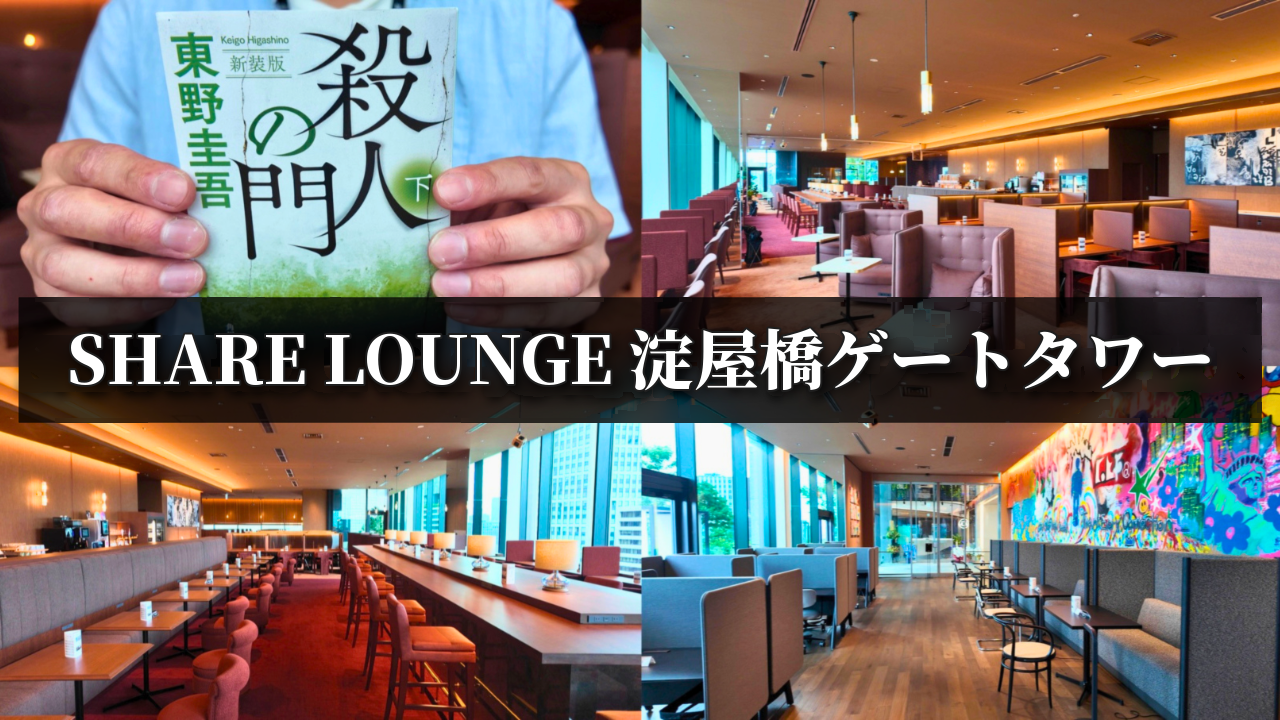
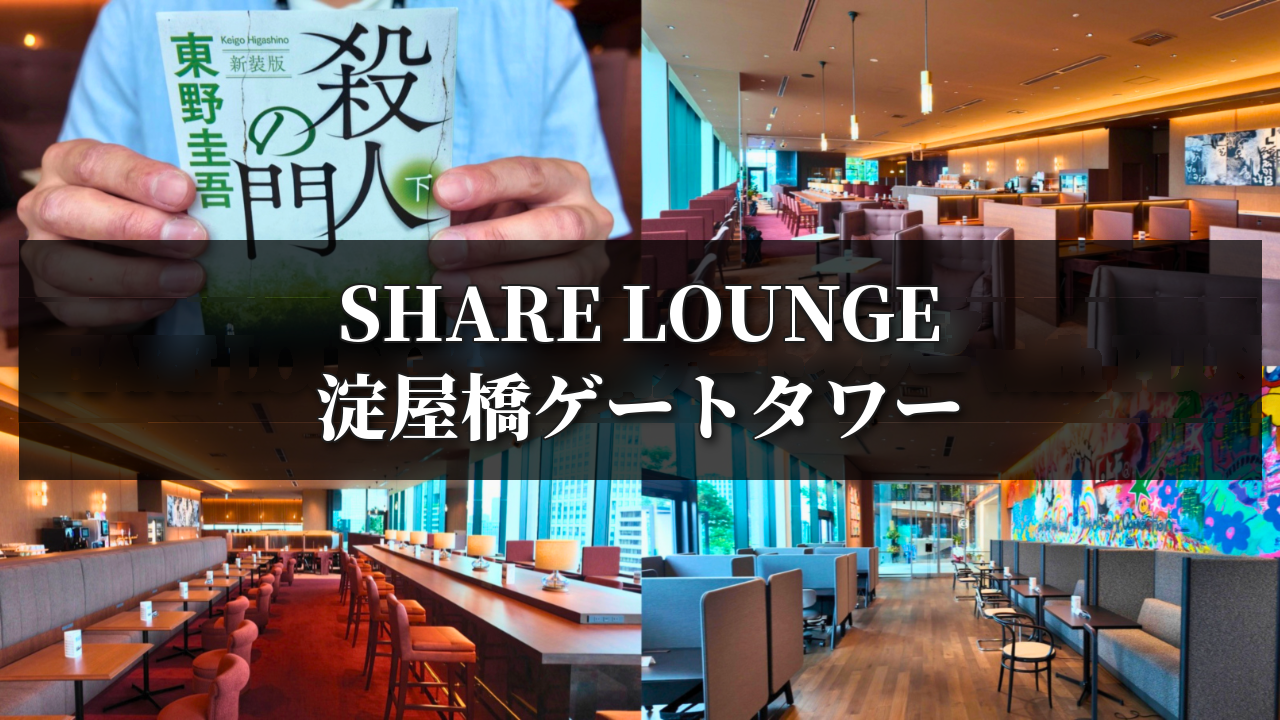
SHARE LOUNGE：真ん中の文字を2行に（retitle.pyを複数行に対応）
Claude-Session: https://claude.ai/code/session_01PgBssd9mgKDSdASv1kBNHd

Changed region(s): [[0.0, 0.3361, 1.0, 0.6722]]

diff --git a/thumbnail/retitle.py b/thumbnail/retitle.py
@@ -7,6 +7,7 @@
     source.png  : 元のサムネイル（1280x720）
     config.json : {"title": "新しい文字", "band": [左, 上, 右, 下]}
                   band は元の半透明の帯の位置（ピクセル）
+                  2 行にするときは title を "1行目\n2行目" にし、"band_height" で帯の高さを指定
 出力: フォルダ内の thumbnail.png（作り直すたびに上書きする）
 """
 import json
@@ -53,29 +54,49 @@ def build(folder: Path) -> Path:
     arr = np.asarray(img).copy()
     arr[t:b, l:r] = erase_text(arr[t:b, l:r])
     canvas = Image.fromarray(arr).convert("RGBA")
-    # 消した跡が目立たないよう、帯を少しだけ濃くする
+    # 2 行以上のときは帯を上下に広げる（新しく広げた部分は元の帯と同じ濃さにする）
+    lines = title.split("\n")
+    nt, nb = t, b
+    if "band_height" in config:
+        cy = (t + b) // 2
+        nt, nb = cy - config["band_height"] // 2, cy + config["band_height"] // 2
     overlay = Image.new("RGBA", canvas.size, (0, 0, 0, 0))
-    ImageDraw.Draw(overlay).rectangle((l, t, r - 1, b - 1), fill=(0, 0, 0, 90))
+    od = ImageDraw.Draw(overlay)
+    od.rectangle((l, nt, r - 1, nb - 1), fill=(0, 0, 0, 185))
+    # 消した跡が目立たないよう、元の帯の部分も少しだけ濃くする
+    od.rectangle((l, t, r - 1, b - 1), fill=(0, 0, 0, 90))
     canvas = Image.alpha_composite(canvas, overlay)
 
     # 帯の高さに合わせた文字サイズ（横幅に入りきらなければ縮める）
-    target_h = round((b - t) * 0.5)
+    gap_ratio = 0.35  # 行と行のあいだ（文字の高さに対する割合）
+    fill = 0.5 if len(lines) == 1 else 0.68  # 帯の高さのうち文字が占める割合
+    target_h = round((nb - nt) * fill / (len(lines) + gap_ratio * (len(lines) - 1)))
     size = 200
     while True:
         font = ImageFont.truetype(str(FONT), size)
-        fl, ft, fr, fb = font.getbbox(title)
-        if (fb - ft <= target_h and fr - fl <= (r - l) - 60) or size <= 30:
+        boxes = [font.getbbox(line) for line in lines]
+        line_h = max(fb - ft for _, ft, _, fb in boxes)
+        widest = max(fr - fl for fl, _, fr, _ in boxes)
+        if (line_h <= target_h and widest <= (r - l) - 60) or size <= 30:
             break
         size -= 1
-    tw, th = fr - fl, fb - ft
-    tx = l + ((r - l) - tw) // 2 - fl
-    ty = t + ((b - t) - th) // 2 - ft
+    gap = round(line_h * gap_ratio)
+    block_h = line_h * len(lines) + gap * (len(lines) - 1)
+    y = nt + ((nb - nt) - block_h) // 2
 
     shadow = Image.new("RGBA", canvas.size, (0, 0, 0, 0))
-    ImageDraw.Draw(shadow).text((tx + 4, ty + 5), title, font=font, fill=(0, 0, 0, 230))
+    sd = ImageDraw.Draw(shadow)
+    positions = []
+    for line, (fl, ft, fr, fb) in zip(lines, boxes):
+        tx = l + ((r - l) - (fr - fl)) // 2 - fl
+        ty = y + (line_h - (fb - ft)) // 2 - ft
+        positions.append((line, tx, ty))
+        sd.text((tx + 4, ty + 5), line, font=font, fill=(0, 0, 0, 230))
+        y += line_h + gap
     canvas = Image.alpha_composite(canvas, shadow.filter(ImageFilter.GaussianBlur(5)))
-    ImageDraw.Draw(canvas).text((tx, ty), title, font=font, fill="white",
-                                stroke_width=2, stroke_fill=(30, 30, 30))
+    d = ImageDraw.Draw(canvas)
+    for line, tx, ty in positions:
+        d.text((tx, ty), line, font=font, fill="white", stroke_width=2, stroke_fill=(30, 30, 30))
 
     out = folder / "thumbnail.png"
     canvas.convert("RGB").save(out, optimize=True)

diff --git a/CLAUDE.md b/CLAUDE.md
@@ -31,4 +31,5 @@ vlog のサムネイルを頼まれたら、毎回この方法で作る。
 ### 完成済みサムネイルの文字だけ変えるとき（素材写真がない場合）
 - `thumbnail/<フォルダ名>/` に元画像を `source.png` として置き、`config.json` に `title` と `band`（元の帯の位置: 左, 上, 右, 下 のピクセル）を書く
 - 実行: `python3 thumbnail/retitle.py thumbnail/<フォルダ名>` → `thumbnail.png`（上書き）
-- 見本: `thumbnail/share-lounge-yodoyabashi/`
+- 2 行にするときは `title` を `"1行目\n2行目"` にし、`band_height`（帯の高さ、例: 240）を足す
+- 見本: `thumbnail/share-lounge-yodoyabashi/`（2 行）
